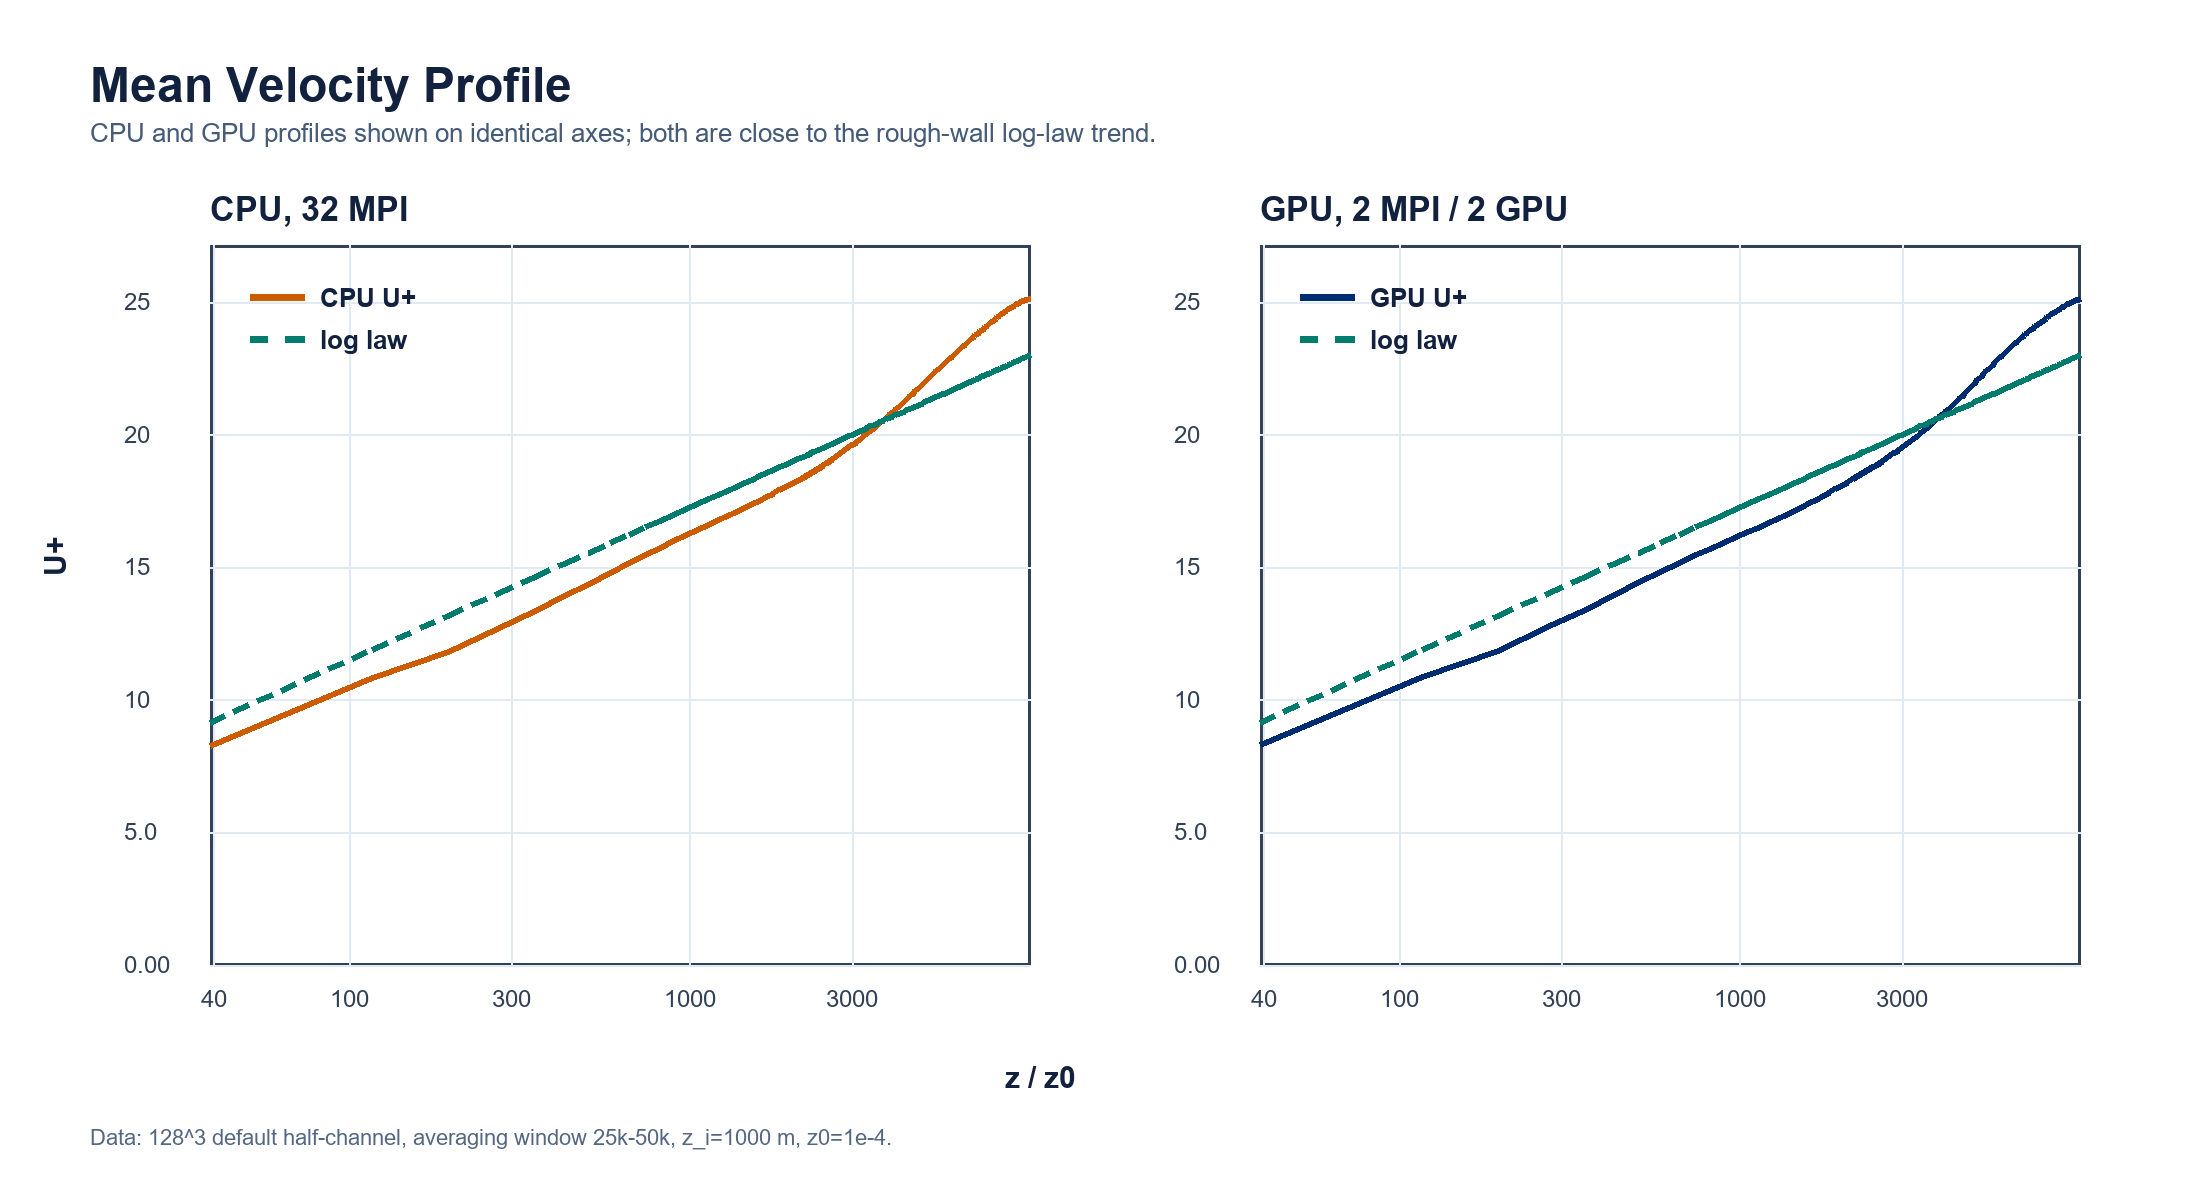
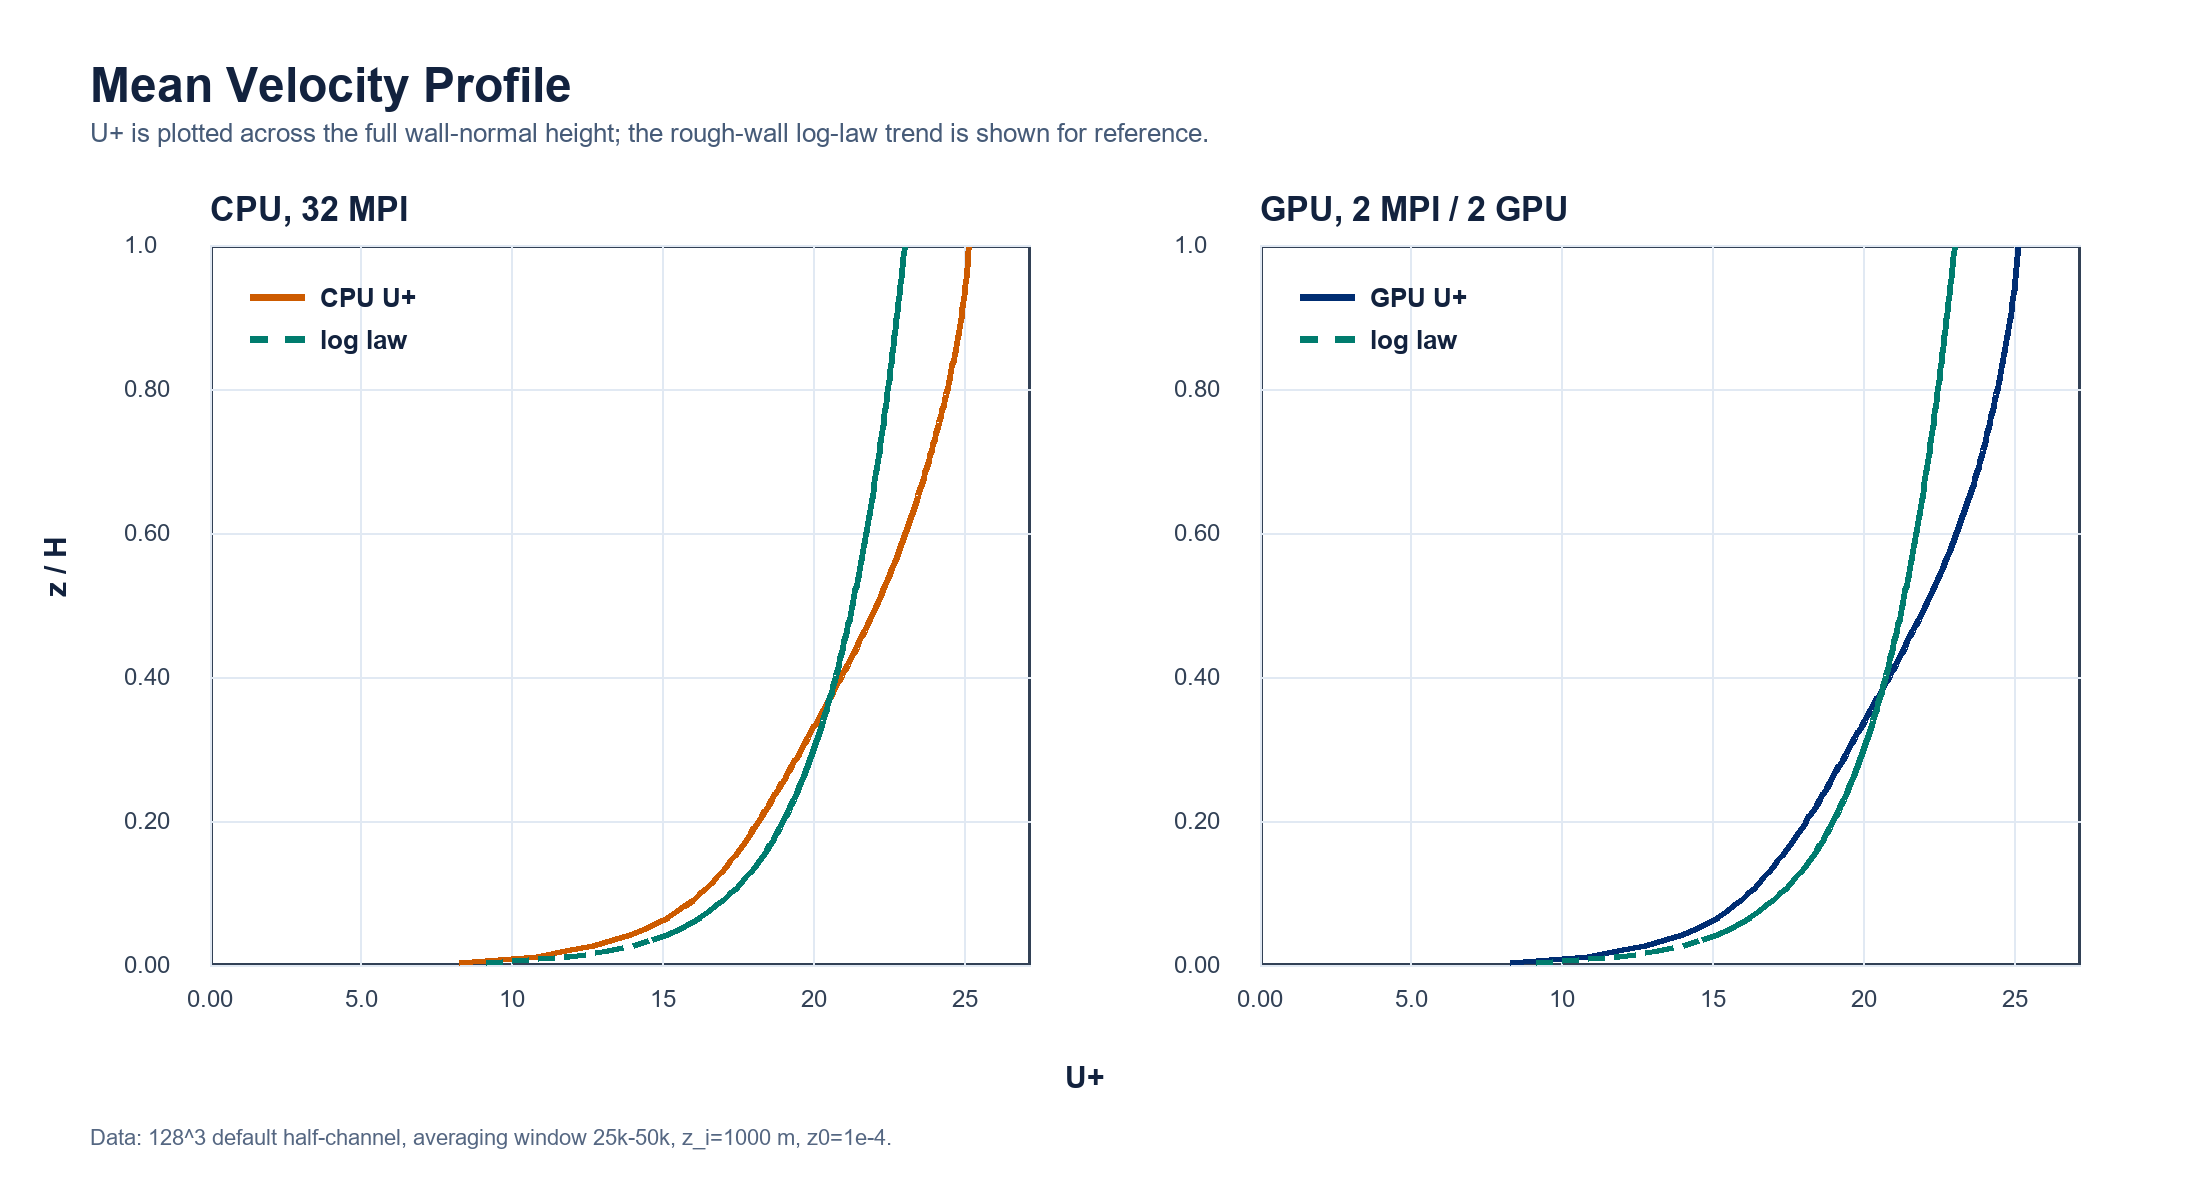
Revise mean velocity validation plot

diff --git a/docs/gpu/validation-performance.md b/docs/gpu/validation-performance.md
@@ -31,7 +31,7 @@ These values are close enough for a turbulent long-run validation. The instantan
 
 ### Mean Velocity
 
-The mean velocity profile is compared against the rough-wall log-law trend. CPU and GPU are shown on identical axes.
+The mean velocity profile is compared against the rough-wall log-law trend. CPU and GPU are shown on identical axes, with `U+` plotted across the full wall-normal height.
 
 <div class="lesgo-image-frame">
   <img src="../../assets/default-channel-128-mean-velocity.png" alt="CPU and GPU mean velocity profiles for the default 128 cubed half-channel case">
